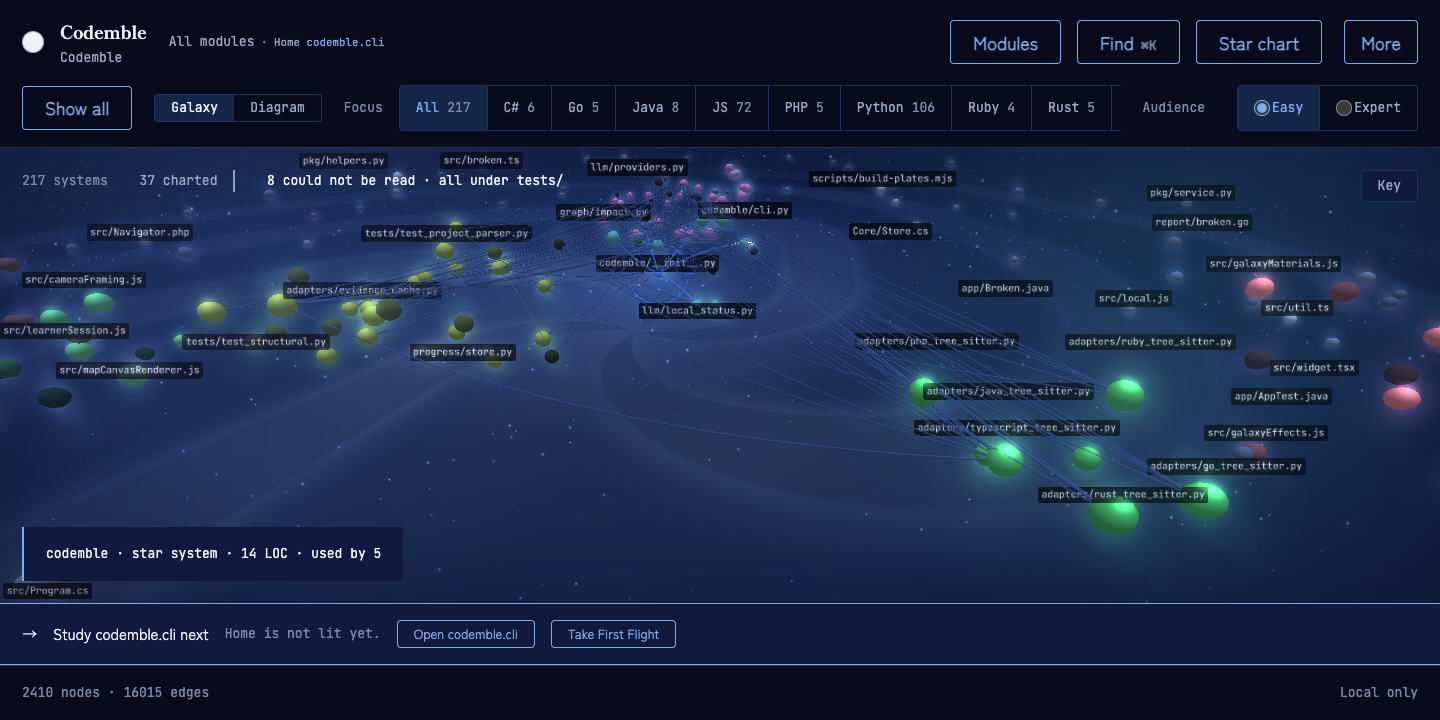
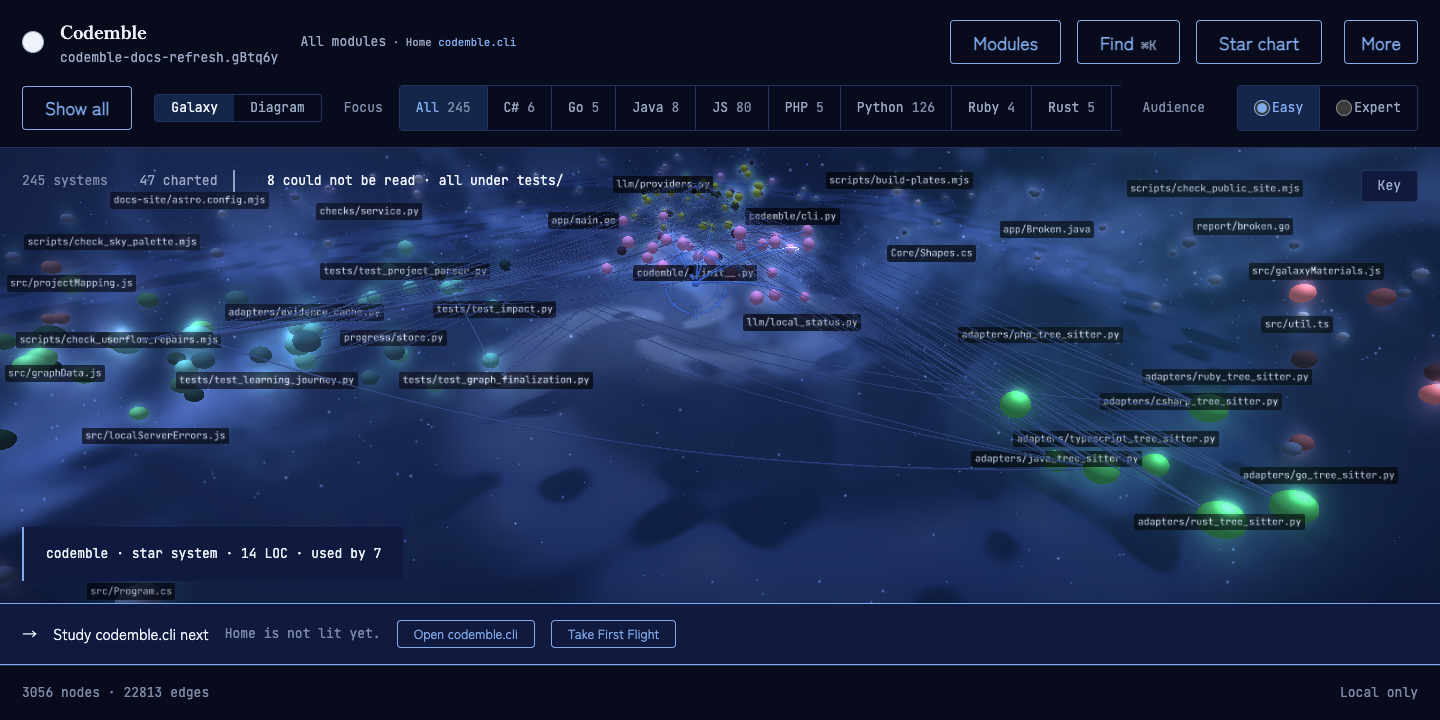
build: verify dependency updates and refresh public proof

diff --git a/tests/test_dependency_compatibility.py b/tests/test_dependency_compatibility.py
@@ -46,6 +46,8 @@ def test_tree_sitter_core_is_new_enough_for_the_grammars() -> None:
 def test_grammar_wheels_are_the_pinned_pairing() -> None:
     assert _version_tuple("tree-sitter-javascript") >= (0, 25)
     assert _version_tuple("tree-sitter-typescript") >= (0, 23, 2)
+    assert _version_tuple("tree-sitter-go") >= (0, 25)
+    assert _version_tuple("tree-sitter-rust") >= (0, 24)
 
 
 def test_anyio_is_new_enough_for_the_narration_limiter() -> None:

diff --git a/CLAUDE.md b/CLAUDE.md
@@ -285,10 +285,26 @@ lit-galaxy GIF as hero).
 
 ## Current State **[AGENT-MAINTAINED]**
 
+**Release preparation and public-doc sync (2026-09-11):** The preservation-first
+main cleanup audited every local/remote branch and worktree; one superseded but
+unique planning ref, one dirty historical graphics worktree, and four open
+Dependabot refs were preserved until relevance was proved. The four dependency
+heads are now integrated on the release-preparation branch: cryptography 50,
+tree-sitter-go 0.25, tree-sitter-rust 0.24, and JetBrains Mono 5.3 pass the full
+683-test suite, Ruff, the nine-language semantic oracle, focused encrypted-share
+and parser suites, real Go/Rust corpus parses, package metadata, web checks, and
+docs checks. The README and public site now distinguish verified stable v0.22.0
+downloads from current-source product previews, and fresh 1440×720 captures show
+the 245-system Galaxy and selected-world Study framing. A new stable release is
+still gated by the intended independent deployment's timers, alerts, authority
+probes, restore/deletion drill, complete-copy inventory, key retirement, and
+approved media-erasure evidence; no version, tag, or published release advances
+without those receipts.
+
 **Graphics expedition (2026-09-10):** Owner explicitly requested full creative control for lifelike game-inspired Galaxy/System graphics, pre-implementation council, verification, main cleanup and release. The two-round design council passed before implementation; see `docs/design/2026-09-10-planetary-expedition.md`. The graphics implementation, live reduced-motion/resource checks, 19-capture visual matrix and same-host baseline comparison are complete; 677 Python tests pass. The complete 5,000-module Map passes in Chromium/WebKit (2.294 s cold, 1.097 s warm), and interrupted-arrival/reduced-motion plus effective-200%-viewport control reachability pass. Two complete implementation council rounds and targeted coverage closure approve local graphics acceptance. PR #47 passed all five hosted checks on `7cffd7d` (run `34548695851`) and was squash-merged as `e1cf18f` with an identical tree; local and remote main synchronized. Redundant branches and owned validation worktrees were removed, both superseded graphics/cleanup tasks archived, and all 32 protected files retained exact bytes. The scale gate exposed two existing repeated scans, replaced with equivalent indexed/short-circuit lookups. M20 operational/public-sharing gates remain open.
 
 **Current milestone: M20 private read-only share foundation** · Last updated:
-2026-09-10 · Session note: scheduled writer/operator lock prerequisites now use
+2026-09-11 · Session note: scheduled writer/operator lock prerequisites now use
 failing pre-start commands: missing locks fail instead of silently skipping
 startup, making failures eligible for the existing alert relay. The preflight
 also rejects paths that do not resolve to regular files. Local verification:
@@ -2331,6 +2347,9 @@ and evidenced.
 | 2026-09-10 | Owner authorizes the Planetary Expedition graphics redesign and its verification/cleanup/release preparation; design council passed in two complete rounds before implementation | Original detailed seeded System worlds, richer bounded Galaxy scenery and measured Study close-ups serve exploration while parser truth, check-only amber, bounded orbit, reduced motion and complete Map remain intact. This authorization does not fabricate the separate M20 operational-release evidence. |
 
 | 2026-09-10 | Required writer/operator lock preflights fail the service through `ExecStartPre` instead of a start condition | `ConditionPathExists` silently skipped scheduled maintenance when provisioning was missing, so `OnFailure` never reached the durable alert relay. A required regular-file preflight preserves refusal to run while making the failure eligible for alerting. It does not create a lock, replace runtime validation, or prove real systemd/channel execution; the operational gate remains unchecked. |
+| 2026-09-11 | Public documentation separates the verified v0.22.0 install and artifacts from current-source product previews; repository captures are regenerated from current source and labelled without a release number | Post-v0.22.0 planetary graphics and sharing-foundation code made the prior “everything pictured ships” claim false. Stable commands, checksums, and downloads still derive from `release.json`, while current screenshots and roadmap language describe unreleased source without implying that the release gate passed. |
+| 2026-09-11 | Accept cryptography 50, tree-sitter-go 0.25, tree-sitter-rust 0.24, and JetBrains Mono 5.3 together; keep tree-sitter core below 0.26 and align the app and docs font package | Cryptography 50.0.1 preserves the AES-GCM storage/delivery contract across the focused suite; the Go and Rust grammar wheels pass the nine-language semantic oracle and parse 910-node upstream Go plus 162-, 2,380-, and 56-node real Rust corpora with no partial files on core 0.25.2. Fontsource 5.3 adds package typing metadata and produces the same committed app bundle. The JavaScript/core 0.26 crash boundary is unchanged. |
+| 2026-09-11 | Cleanup preserves unique or dirty user work and integrates only the four verified Dependabot heads; release publication stays blocked | Branch age and CI alone do not prove redundancy. The planning ref remains unique, the historical graphics worktree contains uncommitted differences, and the dependency refs become removable only after their exact heads reach verified `main`. Local and hosted checks cannot substitute for the independent operational receipts required by M20, so no version bump, tag, or release is created from this pass unless that evidence appears. |
 
 
 ## Non-Goals — do NOT build (point here when asked)

diff --git a/docs-site/src/content/docs/the-galaxy.md b/docs-site/src/content/docs/the-galaxy.md
@@ -13,7 +13,7 @@ download remains v0.22.0; newer planetary detail is not yet published.
 
 <figure class="cm-product-shot">
   <div class="cm-product-shot__viewport" tabindex="0" aria-label="Galaxy product screen. Scroll sideways to inspect it at a readable size.">
-    <img src="/Codemble/shots/galaxy.png" alt="Codemble v0.22.0 at galaxy level: 217 visible, colourful star systems across nine languages in a luminous spiral sky, with parser-owned names, proven and possible routes kept distinct, ranked labels, 37 charted systems, Home resolved to codemble.cli without amber understanding light, and eight unreadable test fixtures called out.">
+    <img src="/Codemble/shots/galaxy.png" alt="Current Codemble source preview at galaxy level: 245 visible, colourful star systems across nine languages in a luminous spiral sky, with parser-owned names, proven and possible routes kept distinct, ranked labels, 47 charted systems, Home resolved to codemble.cli without amber understanding light, and eight unreadable test fixtures called out.">
   </div>
   <figcaption>Full-size product screen · drag, swipe, or use arrow keys to inspect the interface.</figcaption>
 </figure>

diff --git a/README.md b/README.md
@@ -32,7 +32,7 @@
 </p>
 
 <p align="center">
-  <img src="https://github.com/udhawan97/Codemble/raw/main/docs-site/public/shots/galaxy.png" alt="Current Codemble source preview showing 217 colourful star systems across nine languages in a luminous spiral galaxy, with named modules, parser-proven routes, 37 charted systems, and Home resolved to codemble.cli without claiming it is understood." width="1000">
+  <img src="https://github.com/udhawan97/Codemble/raw/main/docs-site/public/shots/galaxy.png" alt="Current Codemble source preview showing 245 colourful star systems across nine languages in a luminous spiral galaxy, with named modules, parser-proven routes, 47 charted systems, and Home resolved to codemble.cli without claiming it is understood." width="1000">
 </p>
 
 <p align="center"><sub>

diff --git a/docs-site/src/content/docs/study-panel.md b/docs-site/src/content/docs/study-panel.md
@@ -78,7 +78,7 @@ record. Charting, checks, and understood state retain their existing meanings.
 
 <figure class="cm-product-shot">
   <div class="cm-product-shot__viewport" tabindex="0" aria-label="Study journey and Impact product screen. Scroll sideways to inspect it at a readable size.">
-    <img src="/Codemble/shots/study-impact.png" alt="The current Expert Study panel scrolled to its integrated Impact lists over the Architecture map.">
+    <img src="/Codemble/shots/study-impact.png" alt="The current source preview with the selected server app world beside the Expert Study panel, scrolled to its integrated Impact lists.">
   </div>
   <figcaption>Codemble v0.22.0 · one landing, one journey, with Impact and Connections integrated once.</figcaption>
 </figure>

diff --git a/CHANGELOG.md b/CHANGELOG.md
@@ -10,6 +10,11 @@ Format: [Keep a Changelog](https://keepachangelog.com/en/1.1.0/) · Versioning: 
   previews across the README and public site, and refresh Study captures with
   the selected world visible beside its parser evidence.
 
+### Dependencies
+- Accept cryptography 50, tree-sitter-go 0.25, tree-sitter-rust 0.24, and
+  JetBrains Mono 5.3 after focused compatibility, semantic-oracle, real-corpus,
+  package, and full-suite verification.
+
 ### Fixed
 - Missing scheduled-maintenance locks now fail startup instead of silently
   skipping the service, making failures eligible for the existing alert relay.
